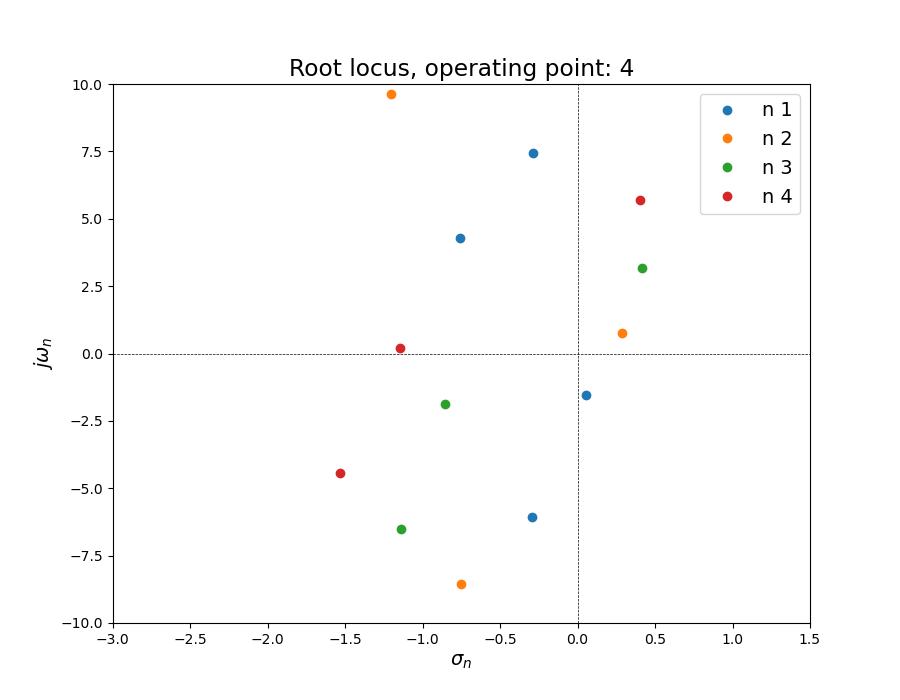
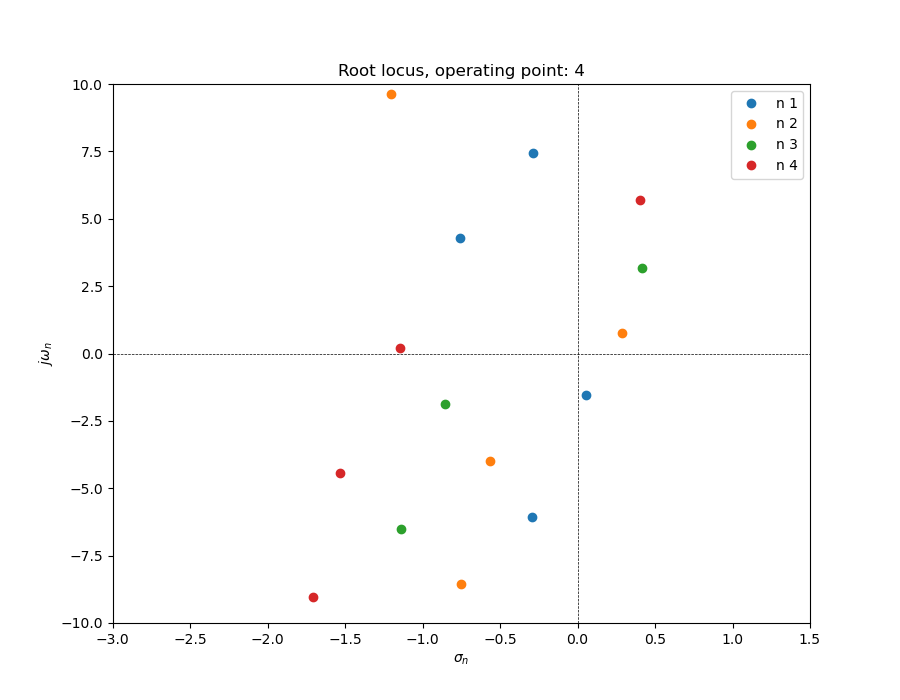
update pics

diff --git a/Spakozvski_model_II/compressor_andrea_main.py b/Spakozvski_model_II/compressor_andrea_main.py
@@ -280,7 +280,7 @@ for wpoint in working_points:
     plt.figure(figsize=format_fig)
     for nn in n:
         print('Harmonic Number: ' + str(nn) + ' of ' + str(n[-1]))
-        poles[nn] = Shot_Gun(centrifugal_vaneless, domain, grid, n=nn, attempts=30, N=60)
+        poles[nn] = Shot_Gun(centrifugal_vaneless, domain, grid, n=nn, attempts=40, N=40)
         plt.plot(poles[nn].real,-poles[nn].imag, 'o',label='n '+str(nn))
     poles_global[wpoint] = poles #for every working point attach the poles to the big dictionary of all poles
     real_axis_x = np.linspace(domain[0],domain[1],100)
